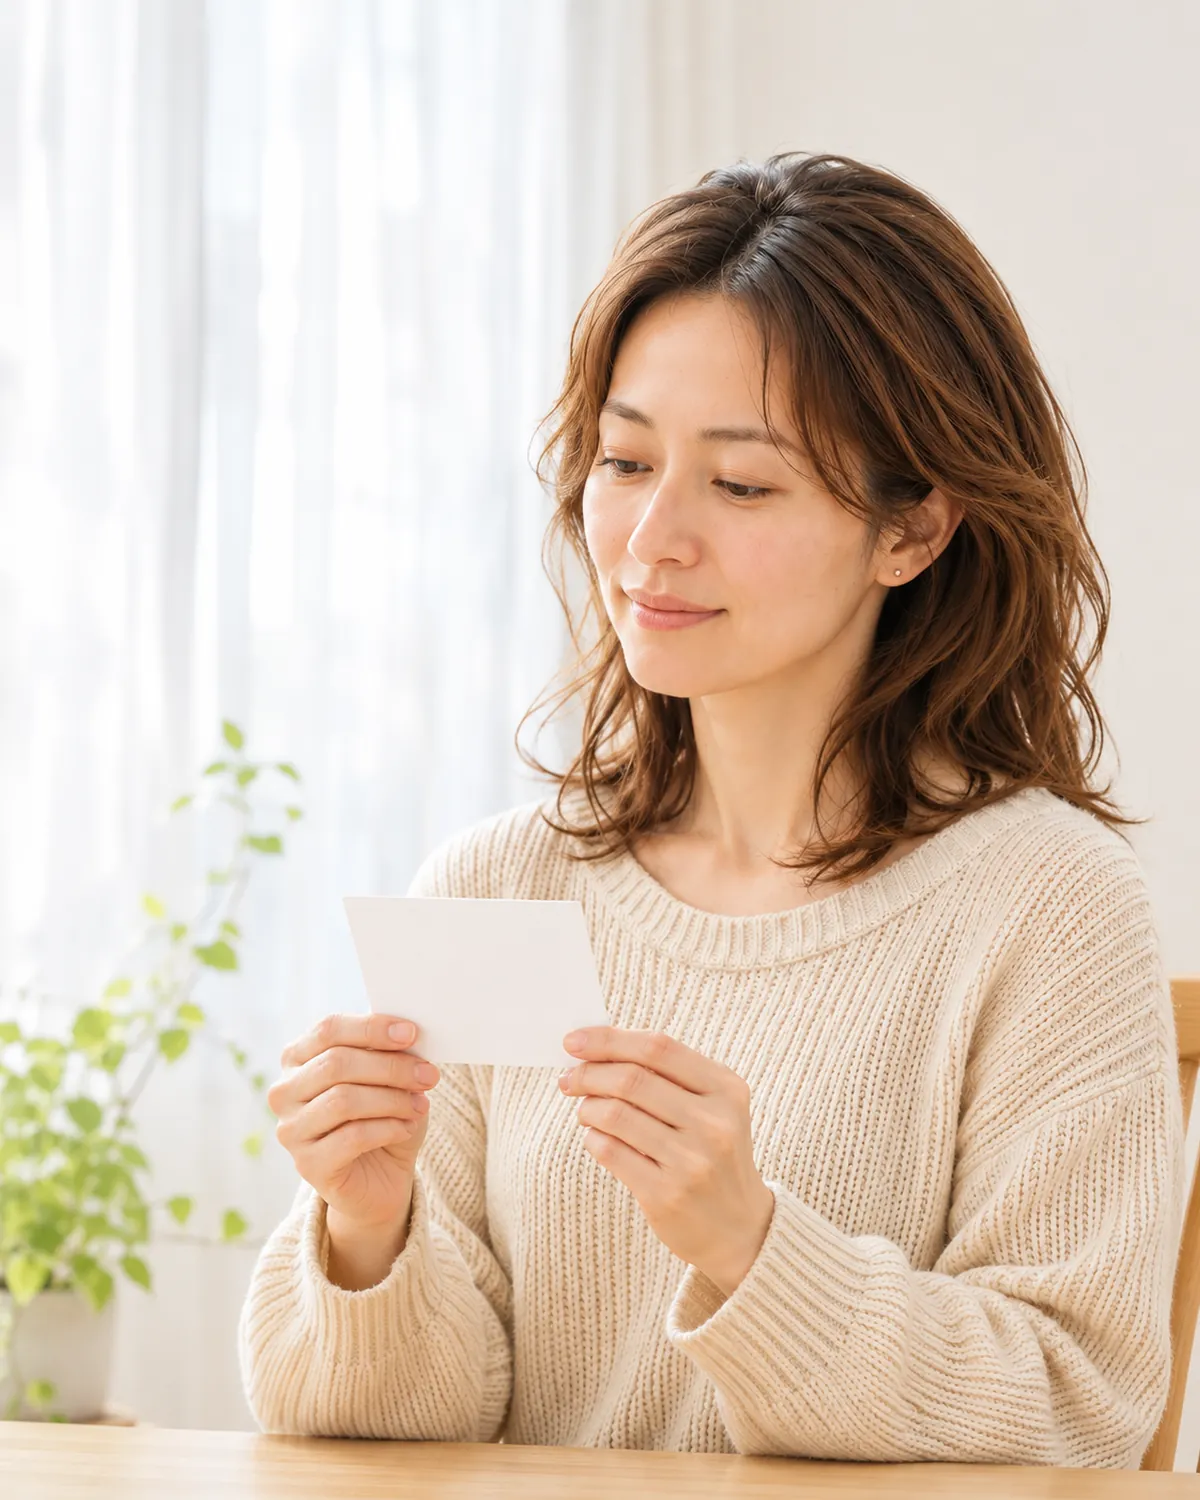
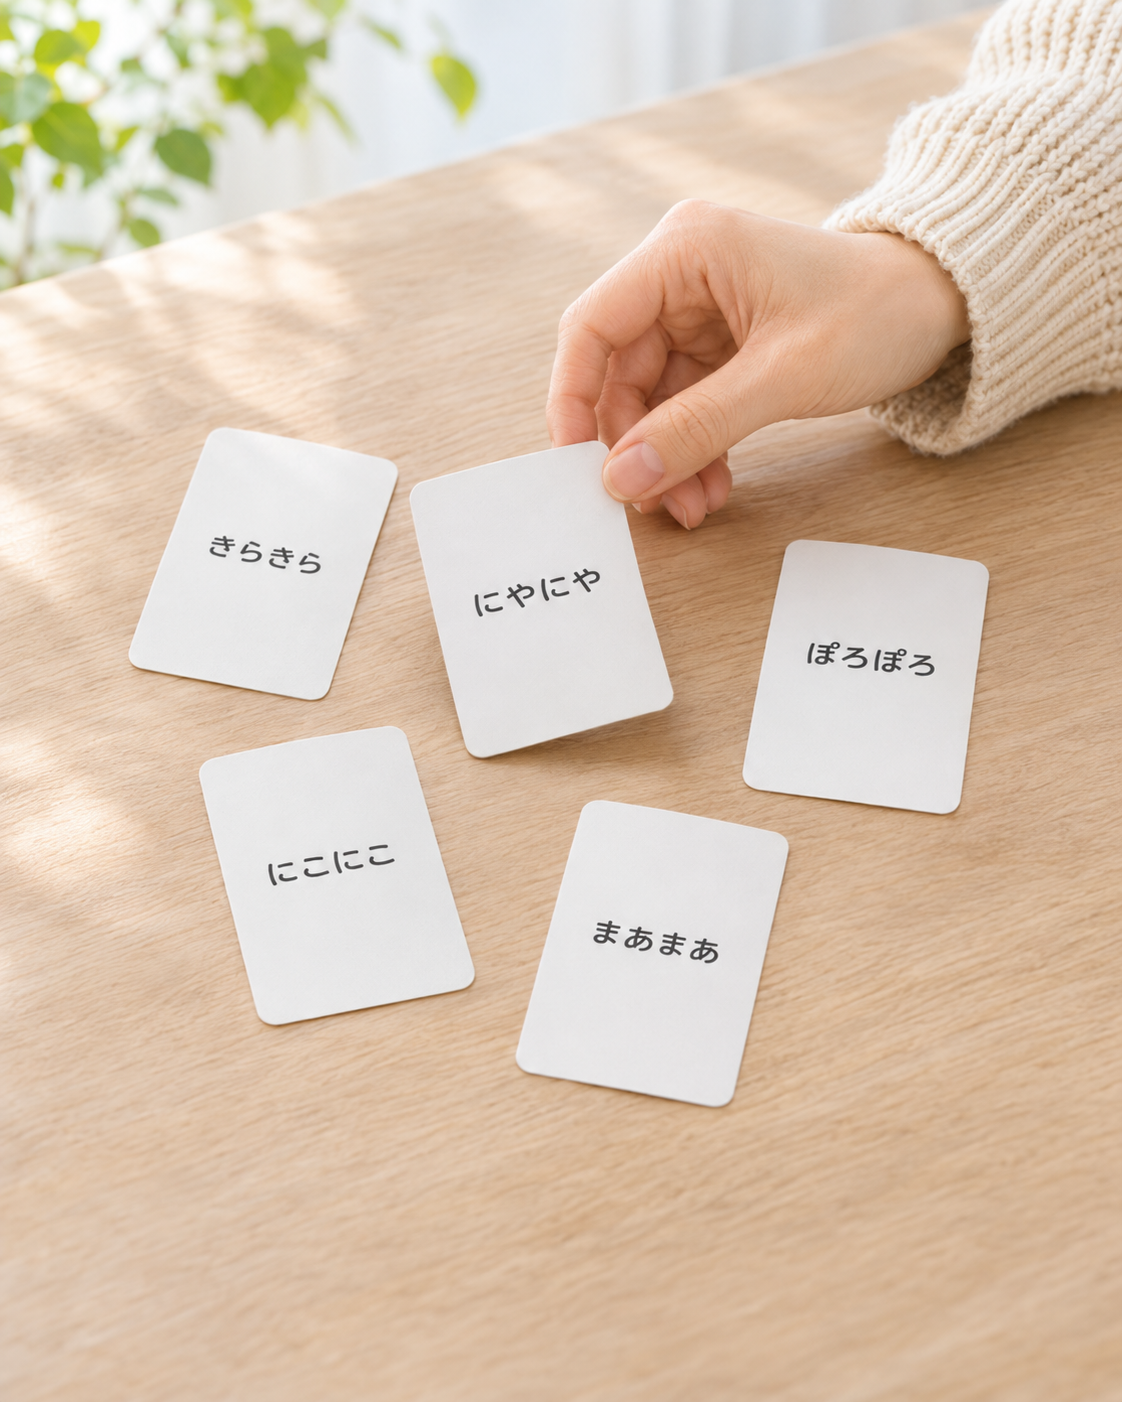
FV2・3枚目とえもっちカードの画像を最新版に差し替え（設計書v1.7）
- fv-2・fv-3・scene-card を画像素材の最新版に差し替え、寸法の指定を合わせた
- カード写真の代替テキストを言葉入りのカードに合わせて修正
- SPのFVで見出しが重なる写真の下部を薄くし、文字のコントラストを確保

diff --git a/index.html b/index.html
@@ -95,10 +95,10 @@ h3{font-size:24px}
 .fv-top > *{grid-area:1/1}
 .fv h1{align-self:end;z-index:2;margin-bottom:4px;font-size:clamp(26px,8.5vw,32px);line-height:1.5}
 .fv-visual{position:relative;z-index:1;margin-top:-28px;margin-inline:calc(var(--gutter) * -1)}
-/* 写真は円で切らず、下端だけ背景色へぼかす。顔から胸元まで寄せる（画像ファイルは加工しない） */
+/* 写真は円で切らず、下端だけ背景色へぼかす。見出しが重なる下の部分は写真を薄くして、文字を読みやすく保つ（画像ファイルは加工しない） */
 .fv-slides{position:relative;overflow:hidden;aspect-ratio:375/430;
-  -webkit-mask-image:linear-gradient(to bottom,transparent 0,#000 12%,#000 54%,rgba(0,0,0,.55) 77%,transparent 100%);
-          mask-image:linear-gradient(to bottom,transparent 0,#000 12%,#000 54%,rgba(0,0,0,.55) 77%,transparent 100%)}
+  -webkit-mask-image:linear-gradient(to bottom,transparent 0,#000 12%,#000 48%,rgba(0,0,0,.3) 70%,transparent 90%);
+          mask-image:linear-gradient(to bottom,transparent 0,#000 12%,#000 48%,rgba(0,0,0,.3) 70%,transparent 90%)}
 .fv-slide{position:absolute;inset:0;width:100%;height:100%;object-fit:cover;object-position:62% 14%;opacity:0;transition:opacity 1.6s ease-in-out}
 .fv-slide.is-on{opacity:1}
 .fv-stop{position:absolute;top:8px;right:28px;z-index:3;font:inherit;font-size:16px;line-height:1.4;letter-spacing:.04em;color:var(--ink-strong);background:#fff;border:1px solid var(--btn-border);border-radius:999px;padding:.4em 1em;cursor:pointer;opacity:0;pointer-events:none}
@@ -492,7 +492,7 @@ h3{font-size:24px}
       <svg class="wave wave-top" viewBox="0 0 400 48" preserveAspectRatio="none" aria-hidden="true" focusable="false"><path fill="currentColor" d="M0 10 C 80 40, 200 44, 300 24 S 380 4, 400 14 L 400 48 L 0 48 Z"/></svg>
       <div class="el-inner wrap-wide">
         <div class="el-fig">
-          <img src="assets/img/scene-card.webp" alt="テーブルに並べた無地のカードから、1枚を手に取る手元（イメージ）" width="1400" height="1000" loading="lazy" decoding="async">
+          <img src="assets/img/scene-card.webp" alt="テーブルに並べた、気持ちを表す言葉のカードから1枚を手に取る手元（イメージ）" width="1484" height="1060" loading="lazy" decoding="async">
         </div>
         <div class="el-text">
           <h3><span class="nb">感情を表す</span><br><span class="nb">「えもっちカード」</span></h3>
@@ -731,7 +731,7 @@ h3{font-size:24px}
       var img = d.createElement('img');
       img.className = 'fv-slide';
       img.alt = '';
-      img.width = 1200; img.height = 1500;
+      img.width = 1122; img.height = 1402;
       img.decoding = 'async';
       img.setAttribute('data-src', src);
       box.appendChild(img);
